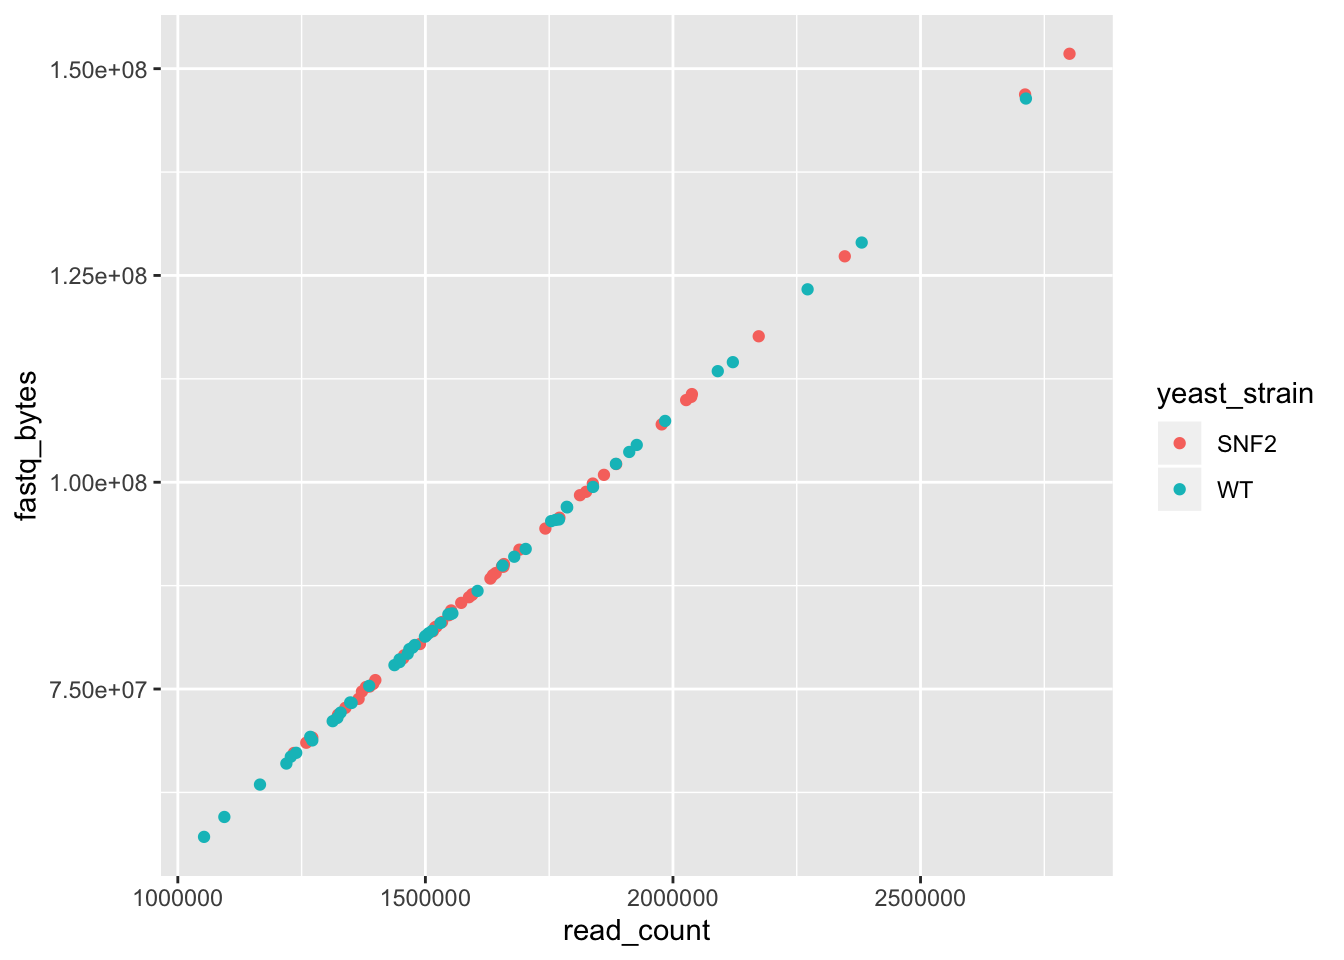
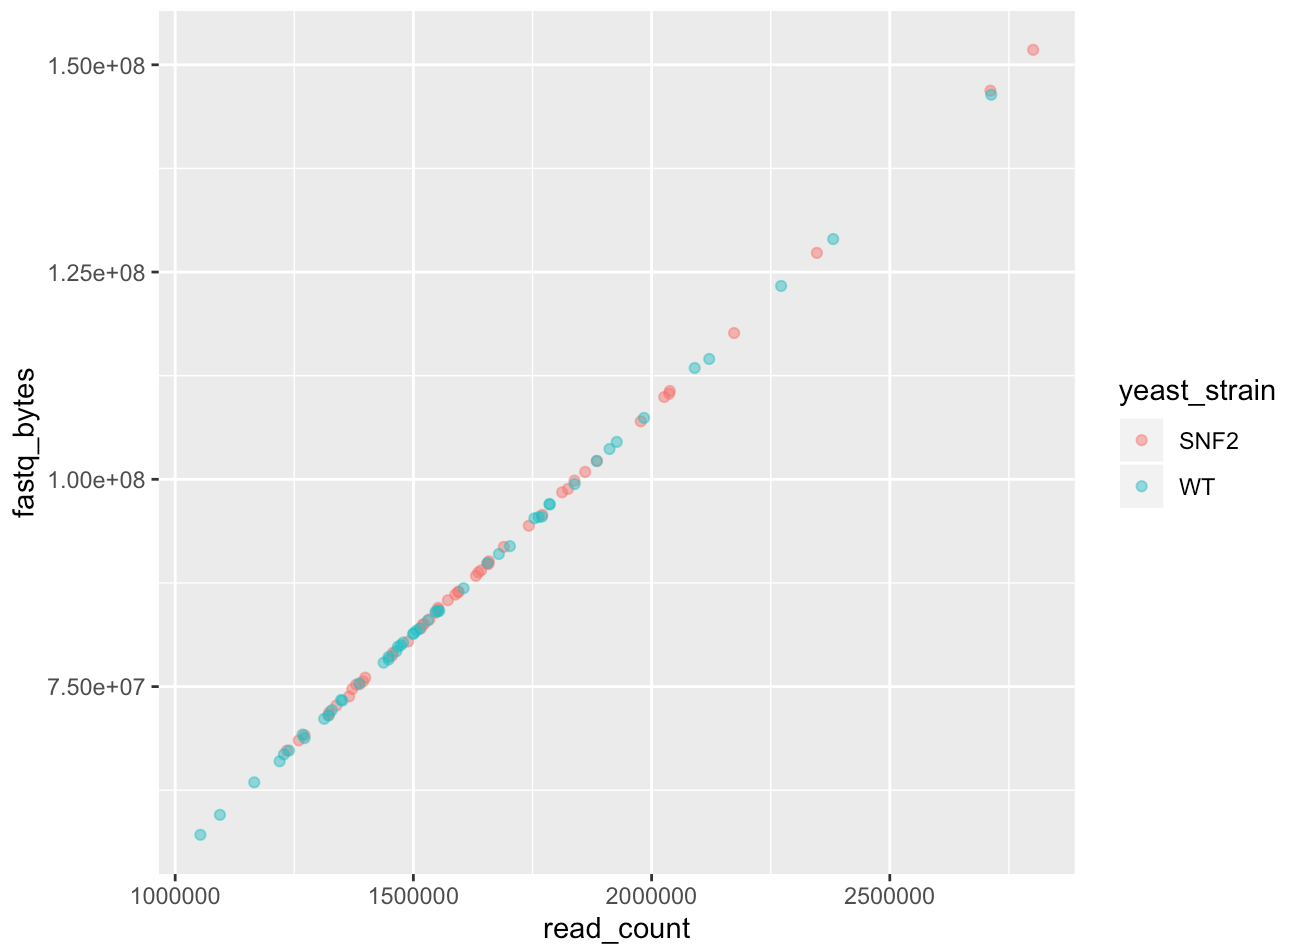
update R-lesson:

diff --git a/R_Intro_Lesson.md b/R_Intro_Lesson.md
@@ -1170,7 +1170,7 @@ Or color each strain differently:
 
 ``` r
 ggplot(data = yeast_metadata, mapping = aes(x = read_count, y = fastq_bytes)) +
-  geom_point(alpha = 1, aes(color = yeast_strain))
+  geom_point(alpha = 0.5, aes(color = yeast_strain))
 ```
 
 <center><img src="_static/ggplot-4.png" width="90%"></center>
@@ -1180,20 +1180,10 @@ We can also specify the color inside the mapping:
 
 ``` r
 ggplot(data = yeast_metadata, mapping = aes(x = read_count, y = fastq_bytes, color = yeast_strain)) +
-  geom_point(alpha = 1)
+  geom_point(alpha = 0.5)
 ```
 
 <center><img src="_static/ggplot-5.png" width="90%"></center>
-<br>
-
-or try different geom layers:
-
-``` r
-ggplot(data = yeast_metadata, mapping = aes(x = read_count, y = fastq_bytes, color = yeast_strain)) +
-  geom_jitter(alpha = 1)
-```
-
-<center><img src="_static/ggplot-6.png" width="90%"></center>
 <br>
 
 We can use boxplots to see the distribution of reads within strains:
@@ -1211,11 +1201,20 @@ idea of the number of measurements and their distribution:
 
 ``` r
 ggplot(data = yeast_metadata, mapping = aes(x = yeast_strain, y = read_count)) +
-  geom_boxplot(alpha = 0.1) +
-  geom_jitter(alpha = 1, color = "tomato")
+  geom_boxplot(alpha = 0.25) + geom_point(alpha = 0.25)
 ```
 
 <center><img src="_static/ggplot-8.png" width="90%"></center>
+<br>
+
+With categorical bins on the x-axis, we can also use `geom_jitter()` to spread out the points to be more clear:
+
+``` r
+ggplot(data = yeast_metadata, mapping = aes(x = yeast_strain, y = read_count)) +
+  geom_boxplot(alpha = 0.1) + geom_jitter(alpha = 0.7, color = "tomato")
+```
+
+<center><img src="_static/ggplot-8b.png" width="90%"></center>
 <br>
 
 ### Exercise 10
